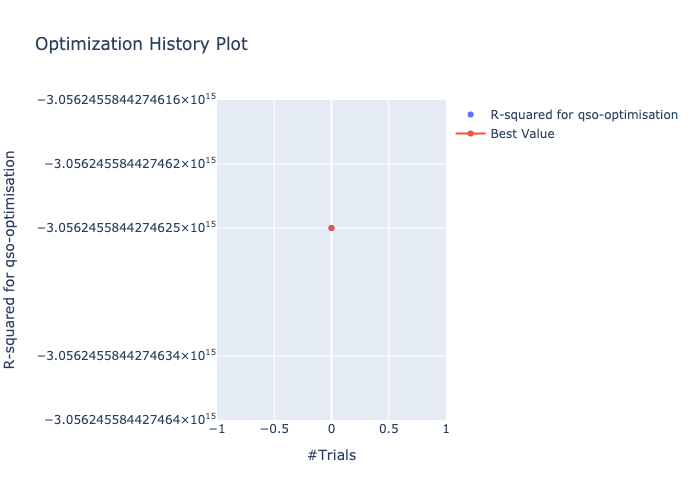
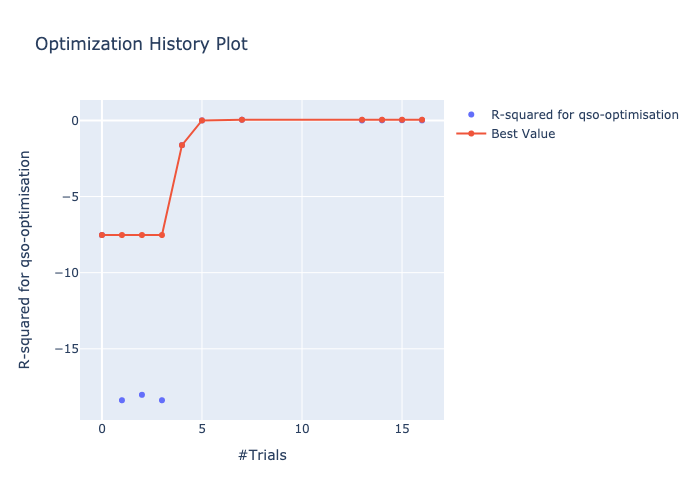
Made models more complex again

diff --git a/models/neural_network/hp_optim.py b/models/neural_network/hp_optim.py
@@ -57,7 +57,7 @@ def main():
     fig1.write_image(f"logs_figs/hp_search_{gal}.png")
 
 
-    model = torch.load(f'trained_models/{gal}/{trial.value}.pt', map_location=torch.device('cpu')) # Delete later
+    model = torch.load(f'trained_models/{gal}/{trial.number}.pt', map_location=torch.device('cpu')) # Delete later
 
     testloader = torch.utils.data.DataLoader(valdata, batch_size=128, shuffle=False)
 
@@ -82,6 +82,7 @@ def main():
         r2 = metrics.r2_score(y_gold, y_pred)
         mse = metrics.mean_squared_error(y_gold, y_pred)
 
+        print()
         print("Test Set - R-squared: ", r2)
         print("Test Set - MSE: ", mse)
 
@@ -117,7 +118,7 @@ def define_model(trial):
     in_features = 21 # --> make a function argument later
 
     for i in range(n_layers_mlp):
-        out_features = trial.suggest_int("mlp_n_units_l{}".format(i), 8, 400)
+        out_features = trial.suggest_int("mlp_n_units_l{}".format(i), 16, 256)
         mlp_layers.append(nn.Linear(in_features, out_features))
         mlp_layers.append(nn.ReLU())
         #if n_layers_mlp // 2 == i:
@@ -148,7 +149,7 @@ def objective(trial):
     batch_size = trial.suggest_categorical("batch_size", [16, 32, 128, 256, 1028])
 
     drop_last = True if (len(valdata.input) > batch_size) else False
-    no_epochs = trial.suggest_int("no_epochs", 30, 300)
+    no_epochs = trial.suggest_int("no_epochs", 30, 200)
 
     trainloader = torch.utils.data.DataLoader(traindata, batch_size=batch_size, shuffle=True,
                                               num_workers=num_workers, drop_last=drop_last)

diff --git a/models/neural_network/models.py b/models/neural_network/models.py
@@ -12,7 +12,7 @@ class LinearRegression(nn.Module):
 
 
 class BaseNet(nn.Module):
-    def __init__(self, n_feature=16, mlp=None):
+    def __init__(self, n_feature=21, mlp=None):
         super(BaseNet, self).__init__()
 
         # Takes an Input Tensor and applies transformations to last layer --> features
